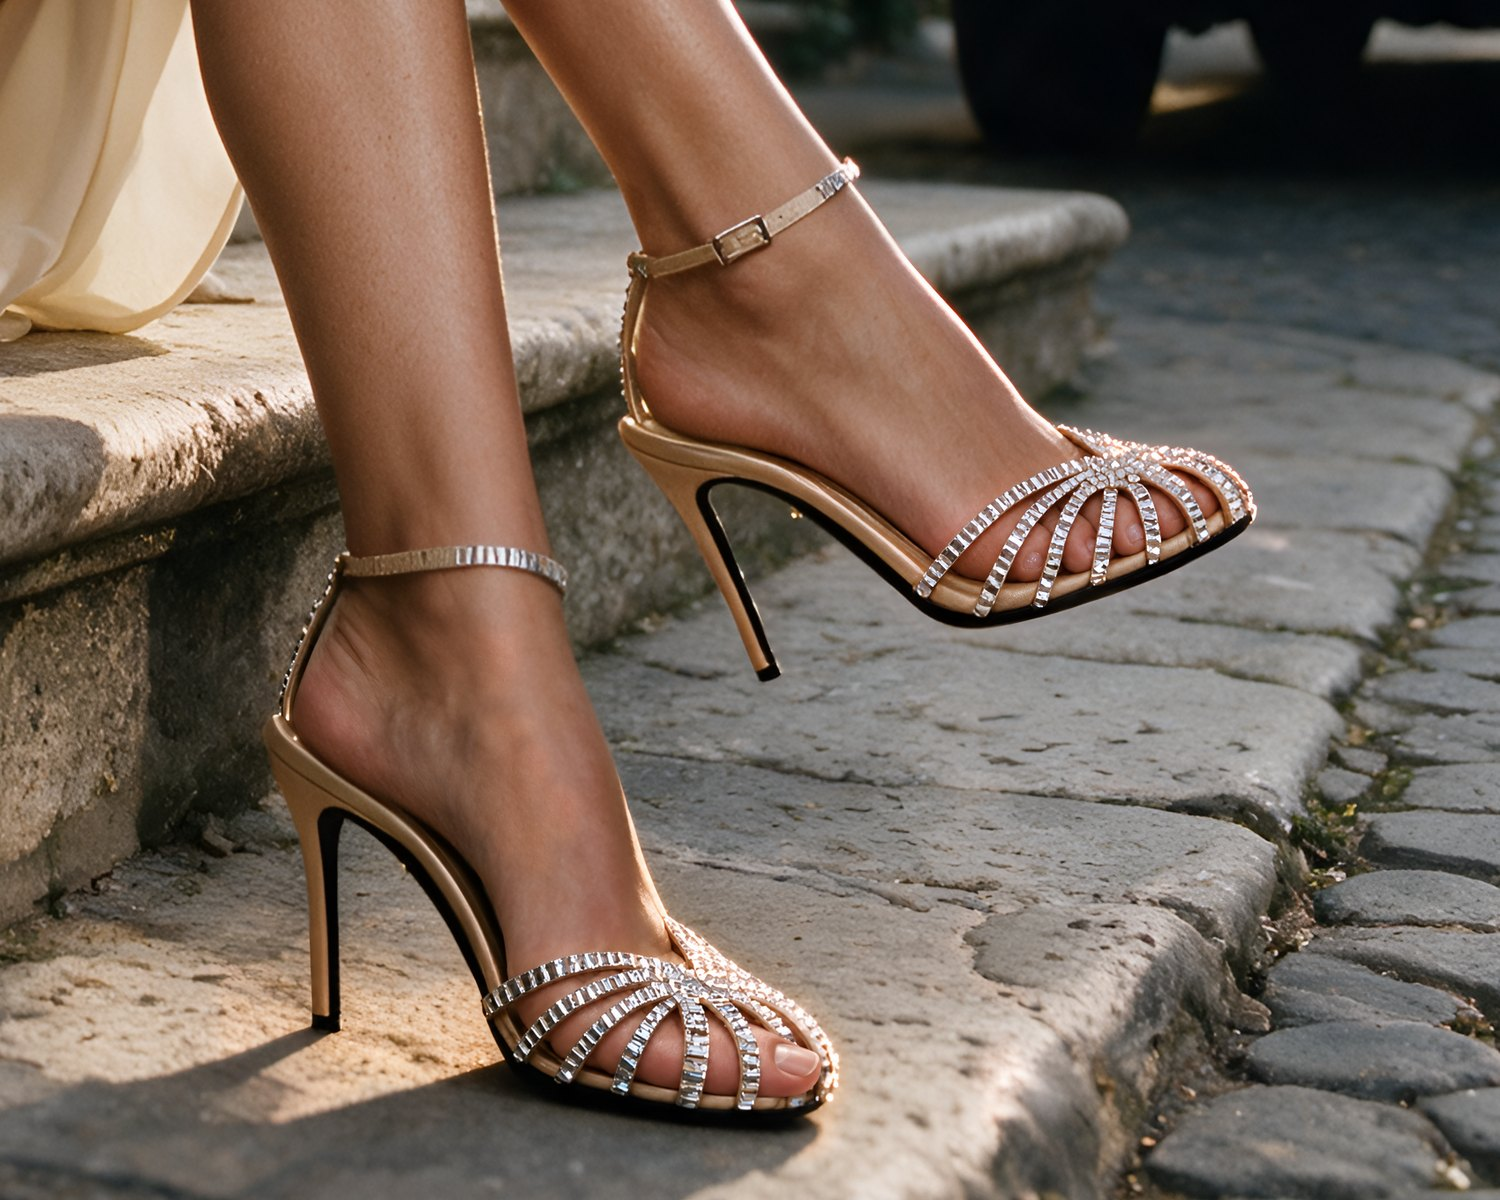
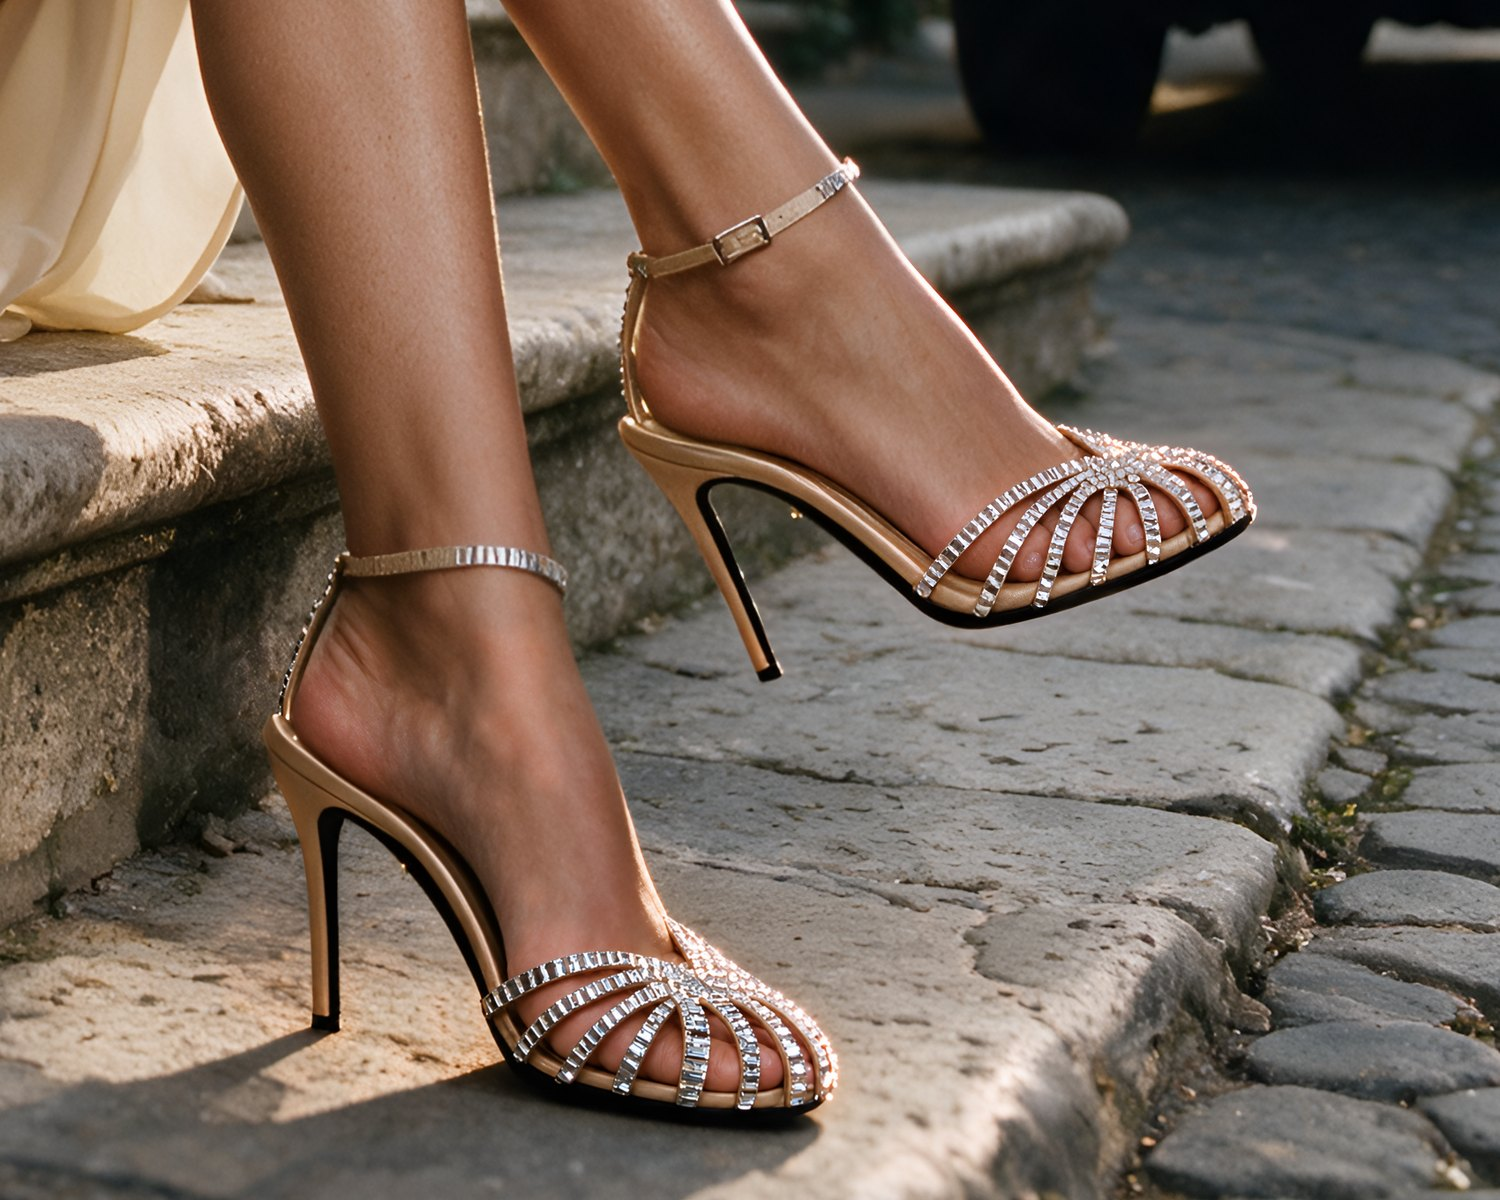
Alevì: gradini, alluce di nuovo dentro la gabbia

diff --git a/prova/alevi-ccf3d7/index.html b/prova/alevi-ccf3d7/index.html
@@ -78,7 +78,7 @@ footer a{text-decoration:none}
   <p class="lead">Penelope è difficile da rifare: la punta chiusa a gabbia, la raggiera di listini con una fila di cristalli baguette ciascuno, il piede che si vede tra i listini. Sono partito dalle vostre foto di Penelope Xtal 110 in satin skin e da foto della scarpa indossata, e ho controllato ogni immagine dettaglio per dettaglio: la punta chiusa con le dita dentro la gabbia, le baguette, il cinturino con il listino di cristalli e la fibbia rettangolare, il tacco da 110 in raso con il lato nero, la piccola perla nella montatura d'oro.</p>
   <div class="pair wide">
     <figure><div class="frame pack"><img src="packshot.jpg" alt="La vostra foto di profilo"></div><figcaption>La vostra foto</figcaption></figure>
-    <figure><div class="frame"><img src="dettaglio.jpg?v=14" alt="Penelope al piede sui gradini di pietra, la gabbia di baguette e il cinturino con la fibbia"></div><figcaption>In campagna</figcaption></figure>
+    <figure><div class="frame"><img src="dettaglio.jpg?v=15" alt="Penelope al piede sui gradini di pietra, la gabbia di baguette e il cinturino con la fibbia"></div><figcaption>In campagna</figcaption></figure>
   </div>
 </section>
 
@@ -89,7 +89,7 @@ footer a{text-decoration:none}
 </section>
 <section class="full"><img src="penelope-02.jpg?v=14" alt="Lei scende ridendo dalla portiera aperta dell'auto nera, le Penelope sul selciato"></section>
 <section class="full"><img src="penelope-03.jpg?v=14" alt="Sul selciato all'alba si volta e sorride, la giacca da sera che scivola, le Penelope al passo"></section>
-<section class="full"><img src="penelope-04.jpg?v=14" alt="Seduta sui gradini di un palazzo milanese, le Penelope in primo piano"></section>
+<section class="full"><img src="penelope-04.jpg?v=15" alt="Seduta sui gradini di un palazzo milanese, le Penelope in primo piano"></section>
 
 <section class="film">
   <div>
